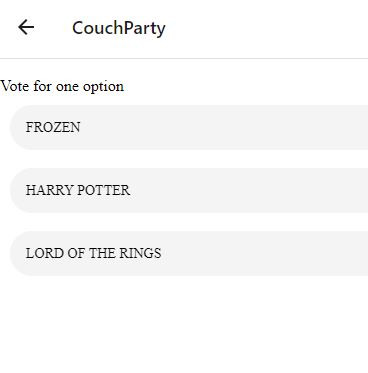
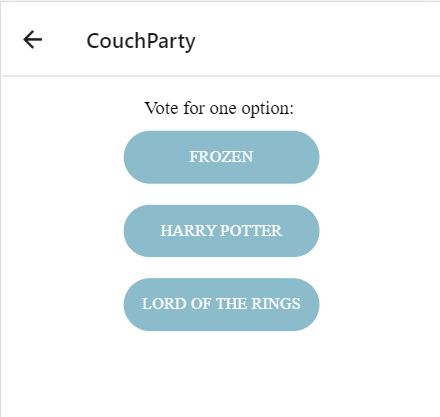
updating colors and buttons

diff --git a/screens/CreatePoll.js b/screens/CreatePoll.js
@@ -52,7 +52,7 @@ export default class RoundedTextboxExample extends React.Component {
   render() {
     //console.log(this.state.optionsArray)
     return (
-      <Container>
+      <Container style={styles.mainText}>
         <Content>
           <h3> Let's start creating your poll!</h3>
           {/*will map through the options by allowing a new input field to be created and saving the input to the new array */}
@@ -60,7 +60,7 @@ export default class RoundedTextboxExample extends React.Component {
             return(
             <>
             <Item rounded>
-            <Input id= {option} placeholder='Enter in an option'/>
+            <Input style={styles.input} id= {option} placeholder='Enter in an option'/>
             </Item> 
             <br></br>
             </>
@@ -68,12 +68,12 @@ export default class RoundedTextboxExample extends React.Component {
           })}
           <br></br>
           {/* when Button is clicked, will call handleNewInput to create another input box */}
-          <Button rounded light onPress={this.handleNewInput}>
+          <Button rounded light style={styles.button} onPress={this.handleNewInput}>
             <Text>Add another option</Text>
           </Button>
           <br></br>
           {/* when Button is clicked, will call createPoll */}
-          <Button rounded light onPress={()=>{createPoll(this.state.optionsArray, this.props.navigation)}}>
+          <Button rounded light style={styles.button} onPress={()=>{createPoll(this.state.optionsArray, this.props.navigation)}}>
             <Text>Create my poll!</Text>
           </Button>
         </Content>
@@ -83,5 +83,23 @@ export default class RoundedTextboxExample extends React.Component {
 }
 
 const styles = StyleSheet.create({
+  button: {
+    justifyContent: "center",
+    backgroundColor: '#8CBCCC',
+    color: '#8CBCCC',
+    alignItems: "center",
+  },
+  mainText: {
+    textAlign: 'center',
+    justifyContent: 'center',
+    alignItems: 'center',
+    backgroundColor: '#fff',
+    fontWeight: 'bold'
+  },
+  input: {
+    textAlign: 'center',
+    justifyContent: 'center',
+    alignItems: 'center',
+  }
     
   });

diff --git a/screens/ChatScreen.js b/screens/ChatScreen.js
@@ -1,5 +1,5 @@
 import React, { Component } from 'react'
-import { Platform, KeyboardAvoidingView, SafeAreaView, FlatList} from 'react-native';
+import { Platform, KeyboardAvoidingView, SafeAreaView, FlatList, StyleSheet} from 'react-native';
 import { Card, Text, Button } from 'native-base';
 import {GiftedChat} from 'react-native-gifted-chat';
 import Fire from "../Fire";
@@ -25,8 +25,8 @@ class CardExample extends Component {
   render() {
 
     return (
-        <Card>
-            <Text style={{position: 'relative', left: 10}}>Voting Results: </Text>
+        <Card style = {{borderRadius: 15, borderColor: '#F9E080'}}>
+            <Text style={{position: 'relative', left: 15, fontWeight: 'bold'}}>Voting Results: </Text>
         {this.props.pollResults.optionObject && Object.keys(this.props.pollResults.optionObject).map((key, index)=>{
             return( 
               <Text style={{position: 'relative', left: 15}}> 
@@ -34,7 +34,7 @@ class CardExample extends Component {
             )
           })
         }{this.state.show ?(
-            <Button danger style ={{position: 'absolute', right: 0, top: 10}} onPress = {this.ShowHideComponenet}><Text>Start CountDown!</Text></Button>
+            <Button danger rounded style={styles.button} onPress = {this.ShowHideComponenet}><Text>Start CountDown!</Text></Button>
         )
              :
         
@@ -43,7 +43,7 @@ class CardExample extends Component {
            size={15}
            onFinish={() =>  alert('START MOVIE!') }
            digitStyle={{backgroundColor: '#FFF'}}
-           digitTxtStyle={{color: '#B79CAA'}}
+           digitTxtStyle={{color: '#8CBCCC'}}
            timeToShow={['S']}
            timeLabels={{ s: 'SEC'}}
          />}
@@ -103,3 +103,15 @@ export default class ChatScreen extends React.Component {
 }
 
 
+const styles = StyleSheet.create({
+    button: {
+      justifyContent: "center",
+      backgroundColor: '#8CBCCC',
+      color: '#8CBCCC',
+      alignItems: "center",
+      position: 'absolute', 
+      right: 0, 
+      top: 10
+    },
+ 
+  });

diff --git a/screens/Main.js b/screens/Main.js
@@ -12,7 +12,7 @@ export default class Main extends Component {
   render() {
     return (
       <Container>
-        <Header style={{backgroundColor: '#FFF'}}><Text>Welcome to CouchParty!</Text></Header>
+        <Header style={{backgroundColor: '#FFF'}}><Text>Stuck at home? Throw a CouchParty</Text></Header>
         <Content padder>
           <Card transparent>
             <CardItem>
@@ -32,7 +32,7 @@ export default class Main extends Component {
                   source = {
                       require("../assets/images/voting.JPG")
                   }
-                  style={{width: 100, height: 100}}
+                  style={{width: 170, height: 100}}
                   />
               </View>
           </Card>
@@ -43,11 +43,11 @@ export default class Main extends Component {
                   source = {
                       require("../assets/images/chat.JPG")
                   }
-                  style={{justifyContent:'center', alignItems: 'center', width: 100, height: 250}}
+                  style={{justifyContent:'center', alignItems: 'center', width: 125, height: 225}}
                   />
               </View>
           </Card>
-          <Button light rounded
+          <Button rounded rounded style={styles.button}
             onPress={() => this.handleNavigation(this.props.navigation)}
           ><Text>Get Started!</Text></Button>
         </Content>
@@ -63,5 +63,11 @@ const styles = StyleSheet.create({
       backgroundColor: '#fff',
       fontWeight: 'bold'
     },
+    button: {
+        justifyContent: "center",
+        backgroundColor: '#8CBCCC',
+        color: '#8CBCCC',
+        alignItems: "center",
+      },
   });
   

diff --git a/screens/HomeScreen.js b/screens/HomeScreen.js
@@ -78,9 +78,9 @@ export default function HomeScreen({navigation}) {
             style={styles.welcomeImage}
           />
         </View>
-        <View>
+        <View >
 
-        <Container>
+        <Container style={styles.container}>
         <Content>
           <Form>
             <Item>
@@ -89,13 +89,13 @@ export default function HomeScreen({navigation}) {
             <Item last>
               <Input id='password' placeholder="Password" />
             </Item>
-            <Button rounded light
+            <Button small rounded  style={styles.button}
             onPress={handleCreateUser}
             >
               <Text>Create Account</Text>
             </Button>
            
-            <Button rounded light
+            <Button rounded small style={styles.button}
             onPress={handleSignIn}
             >
               <Text>Log in</Text>
@@ -168,7 +168,7 @@ export default function HomeScreen({navigation}) {
 const styles = StyleSheet.create({
   container: {
     flex: 1,
-    backgroundColor: '#fff',
+    backgroundColor: '#FFF',
   },
   contentContainer: {
     paddingTop: 30,
@@ -224,4 +224,10 @@ const styles = StyleSheet.create({
   navigationFilename: {
     marginTop: 5,
   },
+  button: {
+    justifyContent: "center",
+    backgroundColor: '#8CBCCC',
+    color: '#8CBCCC',
+    alignItems: "center",
+  }
 });

diff --git a/screens/PollPage.js b/screens/PollPage.js
@@ -74,15 +74,15 @@ export default class ToastExample extends React.Component {
     const movies = this.state.pollOptions.optionObject
     console.log("line 64: ", movies)
     return (
-      <Container>
+      <Container style={styles.mainText}>
       <br></br>
-      <Text>Vote for one option</Text>
+      <Text>Vote for one option: </Text>
         <Content padder>
           {/* .keys will take the property of the object and turn it into an array (example- [Jaws, Titanic]*/}
           {movies? Object.keys(movies).map((option, index)=>{
             return( 
               <>
-              <Button rounded light key={index} value={option} onPress={(event)=> {
+              <Button rounded style={styles.button} key={index} value={option} onPress={(event)=> {
               console.log("event: ", {option})
                 this.updateVote({option})
             }
@@ -104,5 +104,17 @@ export default class ToastExample extends React.Component {
 }
 
 const styles = StyleSheet.create({
-    
+  button: {
+    justifyContent: "center",
+    backgroundColor: '#8CBCCC',
+    color: '#8CBCCC',
+    alignItems: "center",
+  },
+  mainText: {
+    textAlign: 'center',
+    justifyContent: 'center',
+    alignItems: 'center',
+    backgroundColor: '#fff',
+    fontWeight: 'bold'
+  },
 });

diff --git a/screens/LoginScreen.js b/screens/LoginScreen.js
@@ -68,7 +68,7 @@ const styles = StyleSheet.create({
         width: 70,
         height: 70,
         borderRadius: 70/2,
-        backgroundColor: "#9075E3",
+        backgroundColor: "#8CBCCC",
         alignItems: "center",
         justifyContent: "center"
     }

diff --git a/screens/ChatMenu.js b/screens/ChatMenu.js
@@ -56,7 +56,7 @@ const styles = StyleSheet.create({
     marginRight: 12,
   },
   option: {
-    backgroundColor: '#fdfdfd',
+    backgroundColor: '#8CBCCC',
     paddingHorizontal: 15,
     paddingVertical: 15,
     borderWidth: StyleSheet.hairlineWidth,
